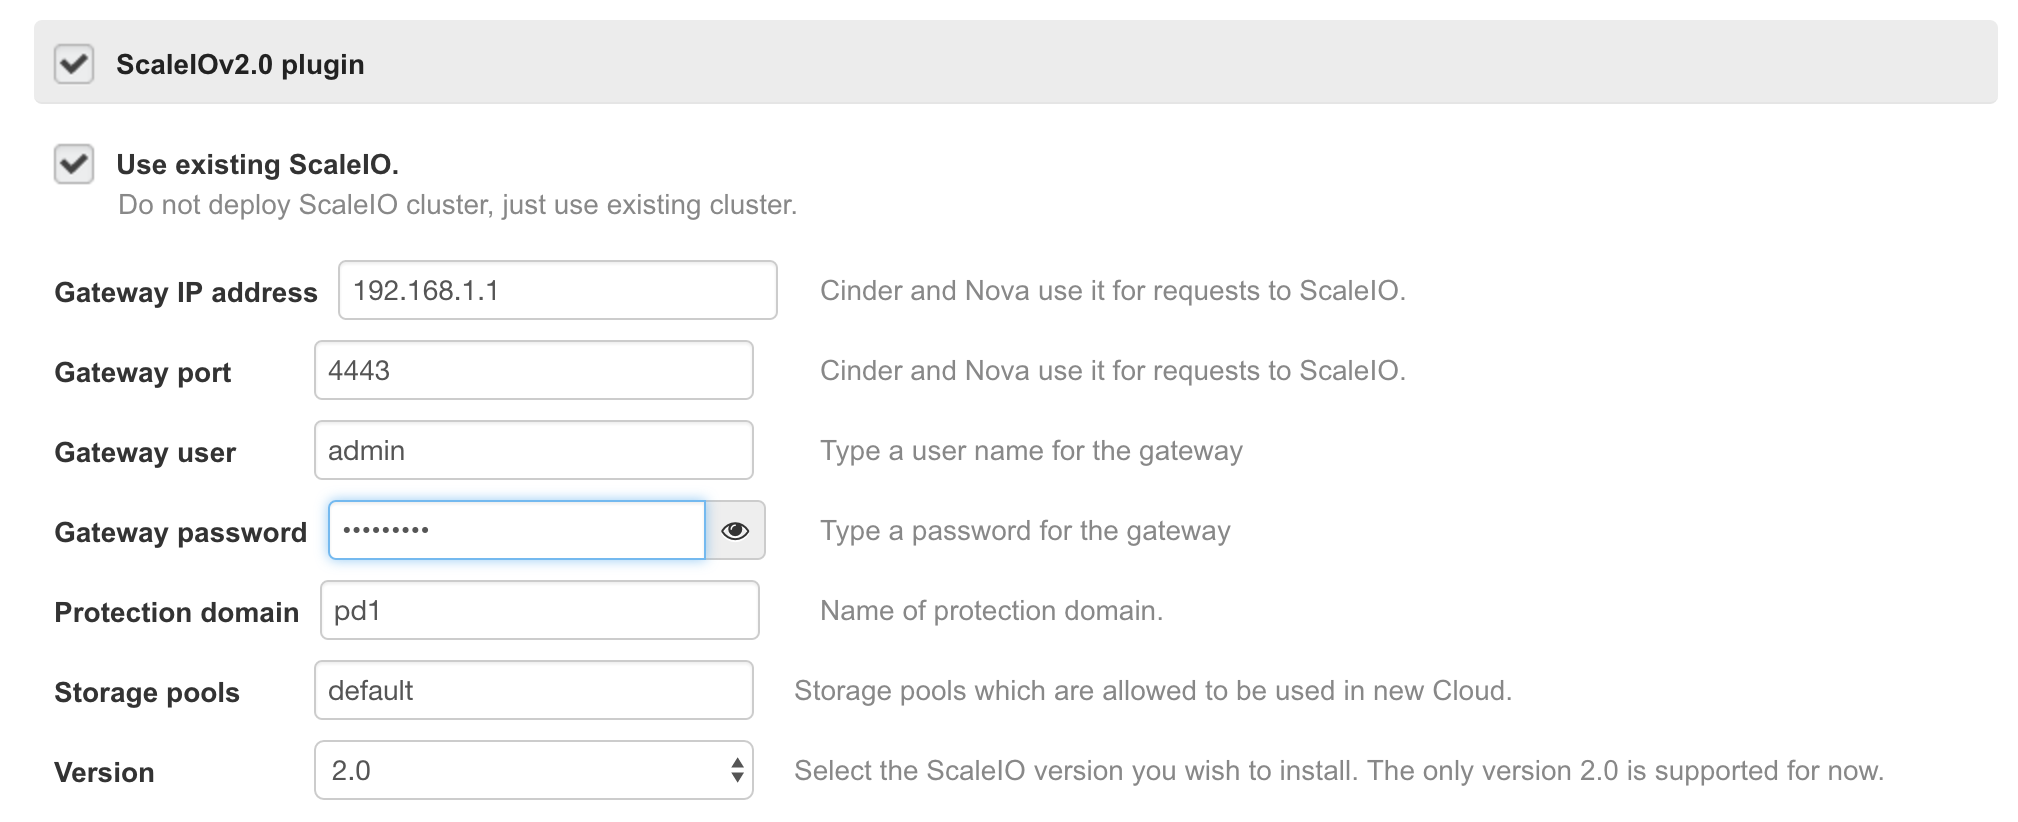
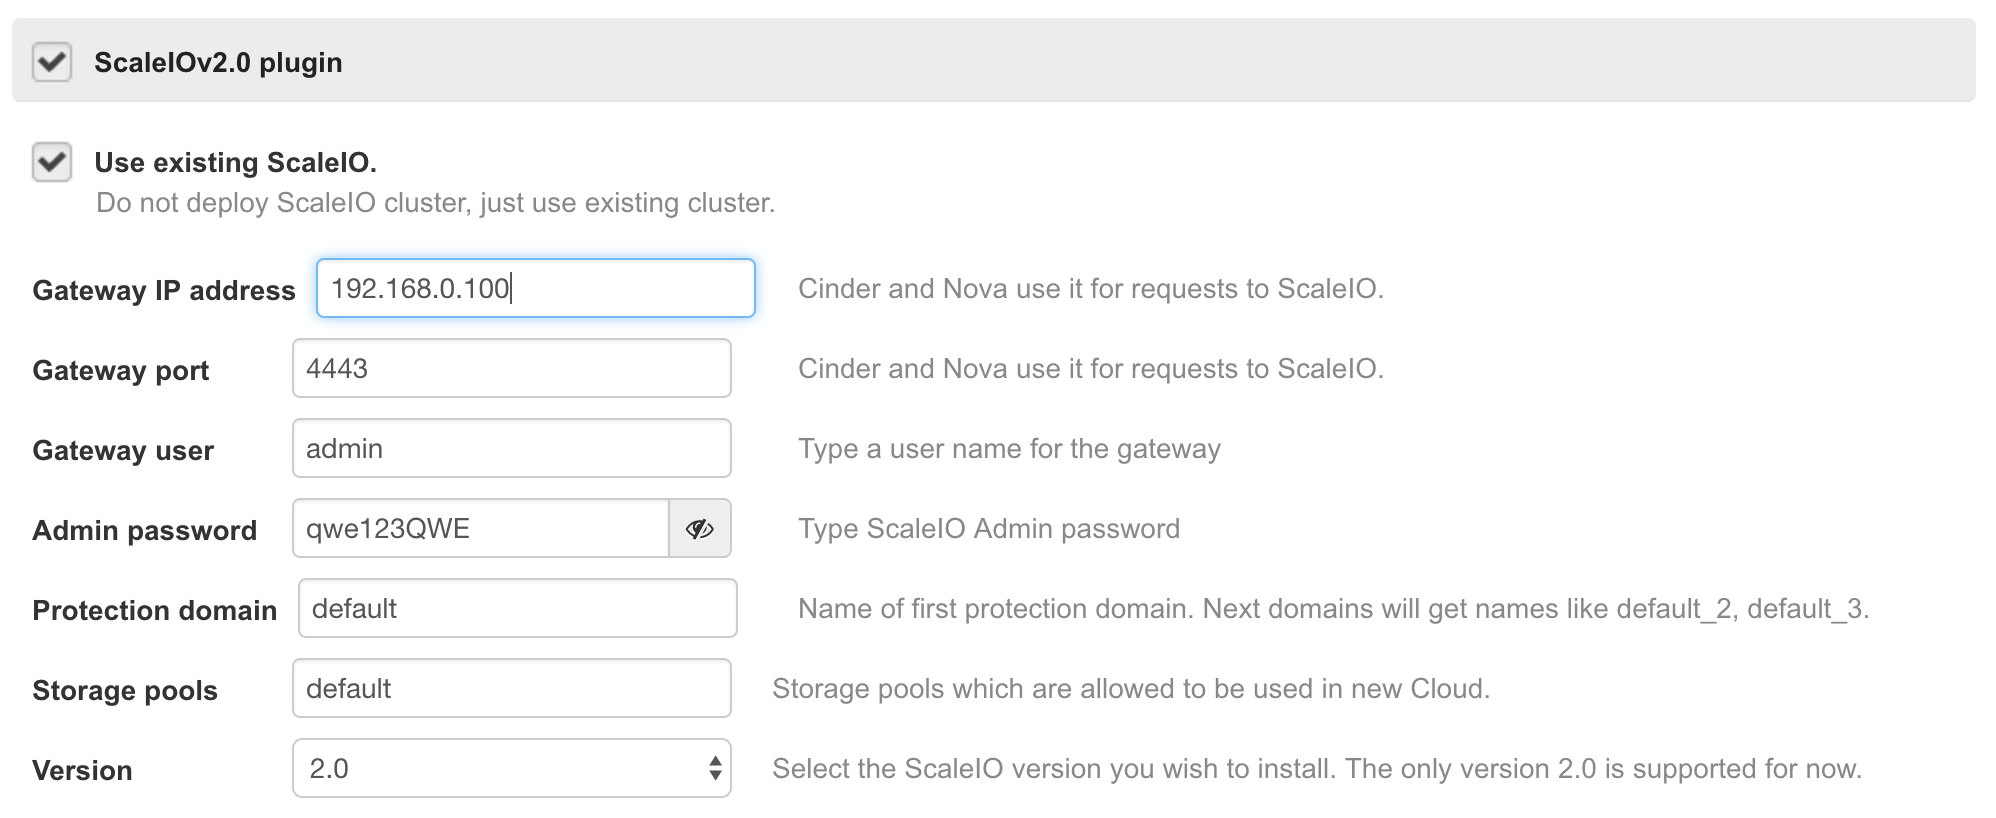
Update docs and readme

diff --git a/README.md b/README.md
@@ -136,7 +136,7 @@ ScaleIO section contains the following info to fill in:
  * Gateway IP address - IP address of ScaleIO gateway
  * Gateway port - Port of ScaleIO gateway
  * Gateway user - User to access ScaleIO gateway
- * Gateway password - Password to access ScaleIO gateway
+ * Admin password - Password to access ScaleIO gateway
  * Protection domain - The protection domain to use
  * Storage pools - Comma-separated list of storage pools
 
@@ -160,6 +160,9 @@ ScaleIO section contains the following info to fill in:
  * XtremCache storage pools - List of storage pools which should be cached with XtremCache.
  * Capacity high priority alert - Threshold of the non-spare capacity of the Storage Pool that will trigger a high-priority alert, in percentage format.
  * Capacity critical priority alert - Threshold of the non-spare capacity of the Storage Pool that will trigger a critical-priority alert, in percentage format.
+ * Use RAM cache (RMCache) - Enable/Disable use of SDS Servers RAM for caching storage devices in a Storage Pool.
+ * Passthrough RMCache storage pools - List of Storage Pools to be cached in SDS Servers RAM in passthrough mode (if the 'Use RAM cache (RMCache)' option is enabled)
+ * Cached RMCache storage pools - List od Storage Pools to be cached in SDS Servers RAM in cached mode (if the 'Use RAM cache (RMCache)' option is enabled)
  
  Configuration of disks for allocated nodes:
  The devices listed in the "Storage devices" and "XtremCache devices" should be left unallocated for ScaleIO SDS to work.

diff --git a/doc/source/guide.rst b/doc/source/guide.rst
@@ -70,7 +70,10 @@ Plugin configuration
 
   \b. Provide Admin passwords for ScaleIO MDM and Gateway, list of Storage devices to be used as ScaleIO SDS storage devices. Optionally you can provide protection domain name and storage pool names.
 
-    .. image:: images/settings.png
+    .. image:: images/settings1.png
+       :width: 80%
+
+    .. image:: images/settings2.png
        :width: 80%
 
   \c. In case you want to specify different storage pools for different devices provide a list of pools corresponding to device paths, e.g. 'pool1,pool2' and '/dev/sdb,/dev/sdc' will assign /dev/sdb for the pool1 and /dev/sdc for the pool2.
